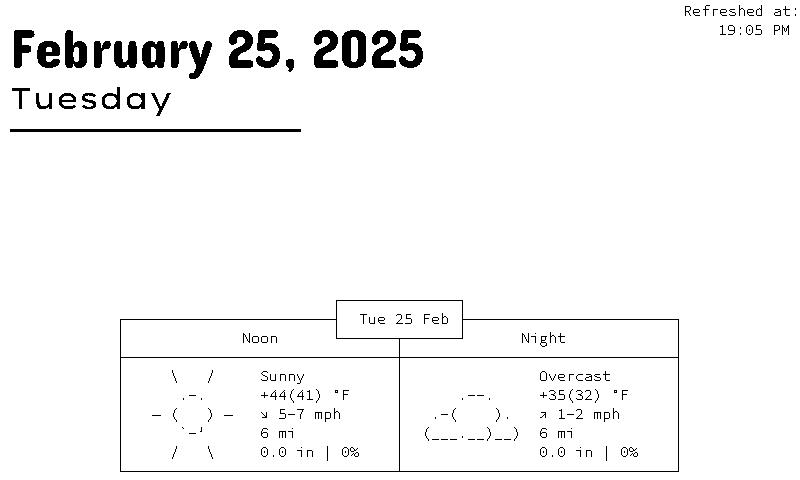
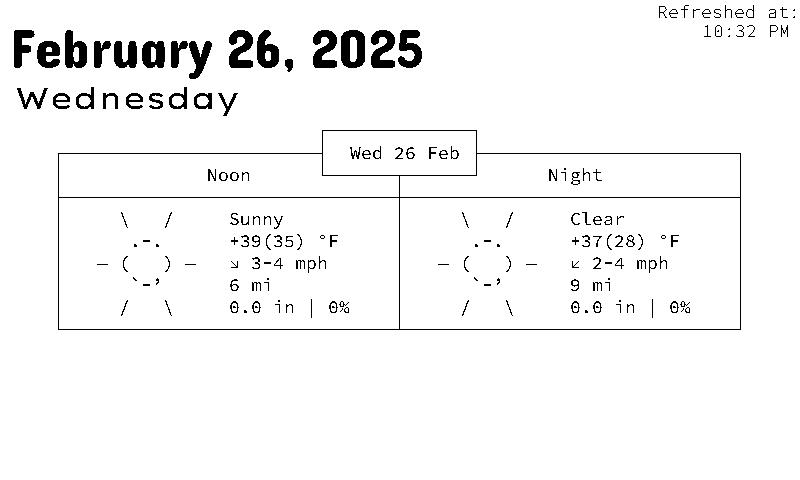
changes

diff --git a/display.py b/display.py
@@ -10,7 +10,7 @@ dir = os.path.join(os.path.dirname(os.path.dirname(os.path.realpath(__file__))))
 Bfont = ImageFont.truetype('./Dangrek-Regular.ttf', 55, encoding="unic")
 Mfont = ImageFont.truetype('./Dangrek-Regular.ttf', 45, encoding="unic")
 Sfont = ImageFont.truetype('./Dangrek-Regular.ttf', 35, encoding="unic")
-SSmono = ImageFont.truetype('./SourceCodePro-VariableFont_wght.ttf', 15, encoding="unic")
+SSmono = ImageFont.truetype('./SourceCodePro-VariableFont_wght.ttf', 18, encoding="unic")
 Smono = ImageFont.truetype('./SourceCodePro-VariableFont_wght.ttf', 20, encoding="unic")
 Mmono = ImageFont.truetype('./SourceCodePro-VariableFont_wght.ttf', 30, encoding="unic")
 Bmono = ImageFont.truetype('./SourceCodePro-VariableFont_wght.ttf', 40, encoding="unic")
@@ -67,14 +67,16 @@ async def genImage(width=800, height=480):
     now = datetime.now()
     day_name = now.strftime("%A")  # Full weekday name
     date_str = now.strftime("%B %d, %Y")
-    time_str = now.strftime("%R %p")
+    time_str = now.strftime("%I:%M %p")
 
-    draw.text((10, 80), day_name, 'black', subFont)
+    SSmono.set_variation_by_name("ExtraLight")
+
+    draw.text((15, 80), day_name, 'black', subFont)
     draw.text((10, 0), date_str, 'black', Bfont)
     draw.text((800, 5), "Refreshed at:", 'black', SSmono, anchor="rt")
     draw.text((790, 25), time_str, 'black', SSmono, anchor="rt")
 
-    draw.line((10, 130, 300, 130), fill='black', width=3)
+    # draw.line((10, 130, 300, 130), fill='black', width=2)
 
     return Himage
 
@@ -92,11 +94,18 @@ async def getWeather():
 
 
     # Recomment back in
-    currentCommand = """curl -s "https://wttr.in/Syracuse+Utah?0FQT" > data/current.txt """
-    os.system(currentCommand)
 
-    dayCommand = """curl -s "https://wttr.in/Syracuse+Utah?1FQTn" > data/day.txt """
-    os.system(dayCommand)
+    if (len(sys.argv) == 1):
+        print("Fetching Weather")
+
+        currentCommand = """curl -s "https://wttr.in/Syracuse+Utah?0FQT" > data/current.txt """
+        os.system(currentCommand)
+
+        dayCommand = """curl -s "https://wttr.in/Syracuse+Utah?1FQTn" > data/day.txt """
+        os.system(dayCommand)
+
+    else:
+        print("Skipping Weather Fetch")
 
     # Read files
     f = open("data/current.txt", "r")
@@ -109,7 +118,8 @@ async def getWeather():
 
 
     day = day.replace(current, "")
-    draw.text((400, 395), day, "black", SSmono, anchor="mm")
+    SSmono.set_variation_by_name("Regular")
+    draw.text((400, 240), day, "black", SSmono, anchor="mm")
 
     
     # server = "minecraft.steeleinnovations.com"
